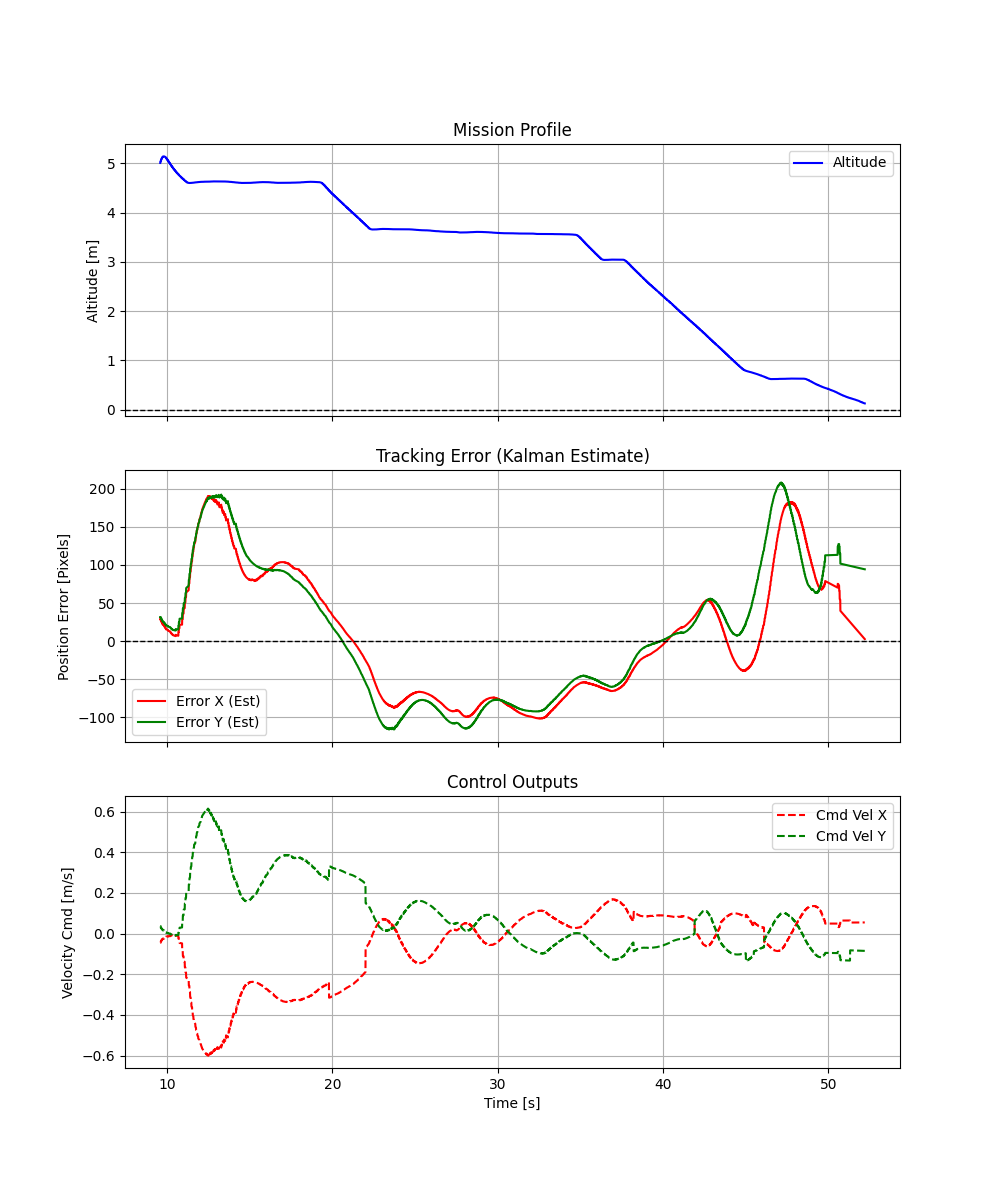
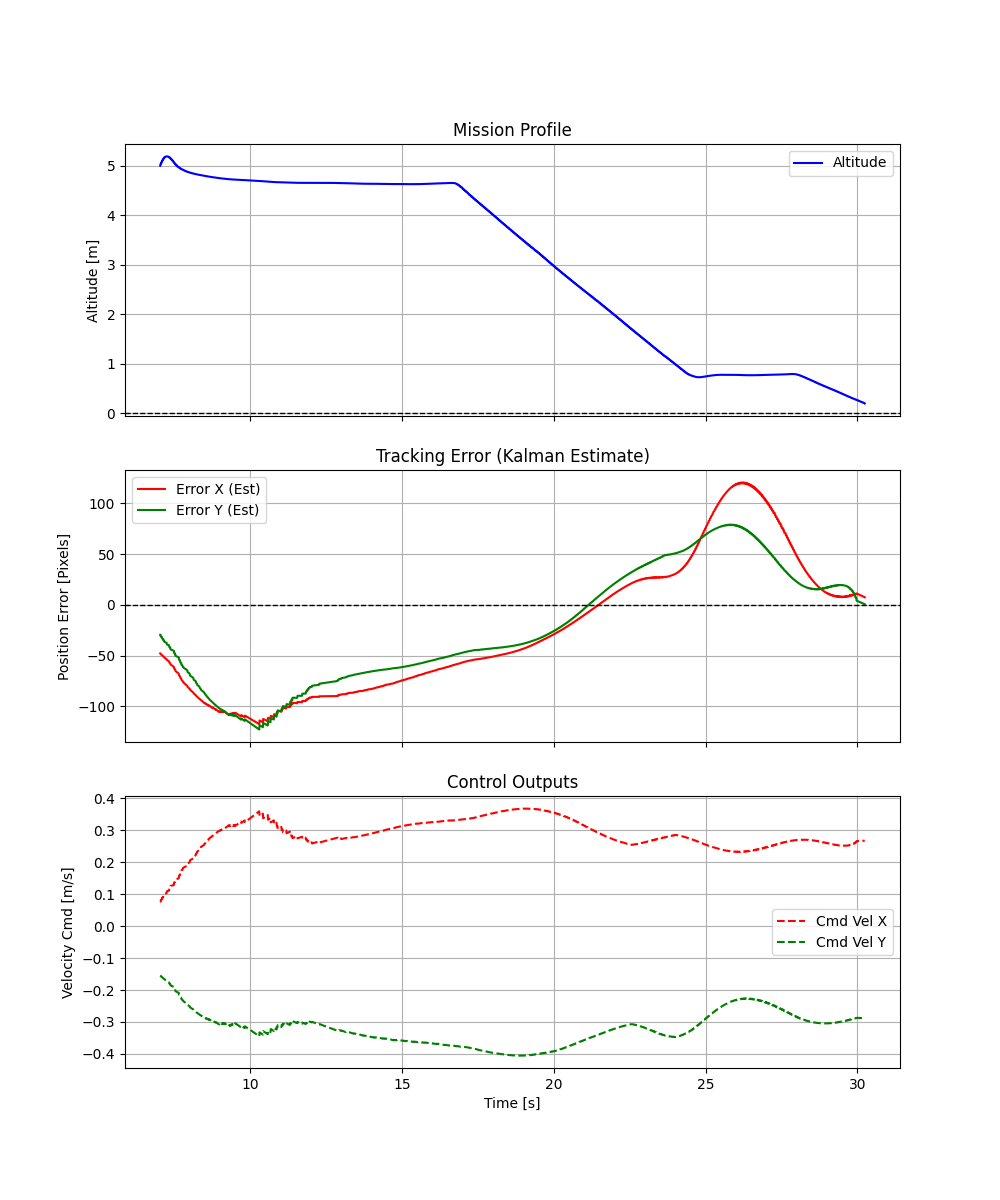
Adapatation for moving platform and improved descent logic. Added dynamic alignment threshold based on altitude to allow for more aggressive descent when closer to the target. Removed feed-forward gain as it was not providing consistent benefits across different altitudes.

diff --git a/landing_controller.py b/landing_controller.py
@@ -160,7 +160,7 @@ async def run():
     # PID Gains (30Hz + HD)
     KP_X, KD_X = 0.0012, 0.003
     KP_Y, KD_Y = 0.0012, 0.003
-    KI = 0.00035   # <--- NEW: Integral Gain
+    KI = 0.0004   # <--- NEW: Integral Gain
     
     cruise_altitude_reached = False 
     
@@ -231,7 +231,7 @@ async def run():
 
         # 1. Calculate Effective Camera Altitude
         # If the camera is below the COM, the effective altitude for parallax is lower.
-        cam_alt = max(current_alt - CAMERA_OFFSET_Z, 0.4) 
+        cam_alt = max(current_alt - CAMERA_OFFSET_Z, 1) 
         
         # 2. Offset pixel to meter conversion (parallax)
         expected_pixel_offset = (CAMERA_OFFSET_Y * FOCAL_LENGTH) / cam_alt
@@ -251,7 +251,7 @@ async def run():
                 cruise_altitude_reached = True
                 last_seen_time = time.time() # Reset timer vista
             else:
-                cmd_z = -1.0
+                cmd_z = -1.5
                 if measurement is not None: # Preventive centering
                      cmd_y = (est_x * KP_X)
                      cmd_x = -((est_y * KP_Y))
@@ -273,32 +273,25 @@ async def run():
             #Damper is the scale of the calculated force, 
             # in this case we will use 40% of calculated, avoid shaking
                 # Gain Scheduling
-                dampener = np.clip((current_alt - 0.5) / 1.2, 0.10, 0.9)
-                max_speed_xy = np.clip(current_alt * 0.8, 0.27, 1.2)
+                dampener = np.clip((current_alt - 0.5) / 1.2, 0.40, 1)
+                max_speed_xy = np.clip(current_alt * 0.8, 0.45, 1.4)
 
                 # --- COMPLETE PID CALCULATION (P + I + D + FF) ---
                 
                 # --- Cutting Integral last meter (FREEZE LOGIC) ---
-                INTEGRAL_CUTOFF_HEIGHT = 0.7
+                i_dampener = np.clip((current_alt - 0.2) / 0.8, 0.3, 1.0)
                 
-                if current_alt > INTEGRAL_CUTOFF_HEIGHT:
-                    # Flying above cutoff, integral is active
-                    integ_x += est_x * DT
-                    integ_y += est_y * DT
-                    
+                # L'errore viene moltiplicato per il dampener prima di essere sommato.
+                # In questo modo, vicino a terra smette di accumulare nuovi errori, 
+                # ma preserva perfettamente il valore totale raggiunto.
+                integ_x += (est_x * DT) * i_dampener
+                integ_y += (est_y * DT) * i_dampener
                     # Anti-Windup standard
-                    integ_x = np.clip(integ_x, -integ_max, integ_max)
-                    integ_y = np.clip(integ_y, -integ_max, integ_max)
-                else:
-                    
-                    pass
+                integ_x = np.clip(integ_x, -integ_max, integ_max)
+                integ_y = np.clip(integ_y, -integ_max, integ_max)
+                
                 # 3. Feed-Forward Gain (Velocity Estimate)
-                if abs(est_x) < 25 or abs(est_y) < 25:
-                    ff_gain = 0.0  # Se siamo molto vicini, disabiliti
-                elif current_alt < 1.15:
-                    ff_gain = 0.0020  # Guadagno più conservativo in discesa
-                else:
-                    ff_gain = 0.0035 
+                ff_gain=np.clip(0.002 * (current_alt / TARGET_ALTITUDE), 0, 0.002)
 
                 # 4. Total PID
                 # Y Axis (Roll)
@@ -321,7 +314,7 @@ async def run():
                 cmd_y = np.clip(cmd_y, -max_speed_xy, max_speed_xy)
 
                 # Descent Management
-                current_align_thresh = ALIGN_THRESHOLD if current_alt > 0.85 else (ALIGN_THRESHOLD * 2.5)
+                current_align_thresh = ALIGN_THRESHOLD if current_alt > 0.7 else (ALIGN_THRESHOLD * 2.5)
                 is_aligned = (abs(est_x) < current_align_thresh and abs(est_y) < current_align_thresh)
                 
                 # --- LOGGING (Inside the While) ---
@@ -334,7 +327,7 @@ async def run():
                 log_data['vel_y_cmd'].append(cmd_y)
                 log_data['target_visible'].append(1 if target_visible else 0)
                 if is_aligned:
-                    final_descent_speed = 0.13 if current_alt < 0.85 else 0.30
+                    final_descent_speed = 0.25 if current_alt < 0.85 else 0.5
                     cmd_z = final_descent_speed
                 else:
                     # Corrective hovering
@@ -388,12 +381,13 @@ async def run():
                         cmd_z = 0.0  # Maintain altitude if already high
 
         # --- C. TOUCHDOWN ---
-        if current_alt < 0.13 and cruise_altitude_reached:
+        if current_alt < 0.2 and cruise_altitude_reached:
              print("--- TOUCHDOWN ---")
              await drone.offboard.set_velocity_body(VelocityBodyYawspeed(0,0,0,0))
              try: await drone.offboard.stop()
              except: pass
-             await drone.action.kill()
+             #await drone.action.kill()
+             await drone.action.land()
              break
 
         # --- D. COMMAND ---
